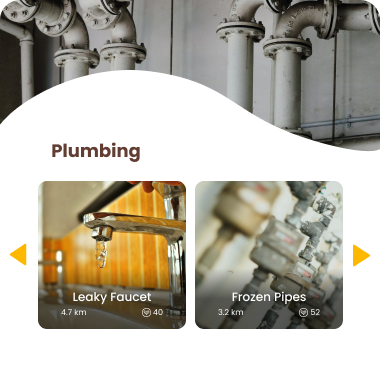
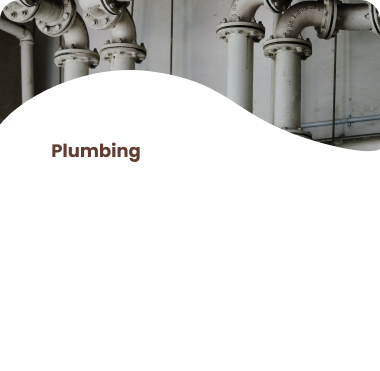
send request page updates dynamically through firebase

diff --git a/app/screens/Work.js b/app/screens/Work.js
@@ -1,12 +1,14 @@
 import 'react-native-gesture-handler';
-import React, { useRef } from "react";
+import React, { useRef, useState, useEffect } from "react";
 import { Animated, ImageBackground, Text, TouchableOpacity, ScrollView, Image, StyleSheet, Platform, StatusBar, View, Button, LogBox } from 'react-native';
 import colors from '../config/colors';
 import { render } from 'react-dom';
 import { color } from 'react-native-reanimated';
-import Swiper from 'react-native-swiper'
+import Swiper from 'react-native-swiper';
+import { firestore } from 'firebase';
 
-function Work({ navigation }) {
+function Work({ route, navigation }) {
+    const { userValue } = route.params;
     const fadeAnim1 = useRef(new Animated.Value(0)).current;
     const fadeAnim2 = useRef(new Animated.Value(0)).current;
     const fadeAnim3 = useRef(new Animated.Value(0)).current;
@@ -39,6 +41,44 @@ function Work({ navigation }) {
         alert("clicked")
         console.log(id)
     }
+
+    const [taskDisplay, setTaskDisplay]= React.useState([]);
+    const addMoreTask = (newTask) => {
+        setTaskDisplay({taskDisplay: [...taskDisplay, newTask]});
+      }
+
+    firestore()
+        .collection("tasks")
+        .where("user","==","9053334444")
+        .get()
+        .then((docSnapshot)=>{
+            const taskArray =[];
+            docSnapshot.forEach((doc)=>{
+                //console.log(doc.get("category"));
+                taskArray.push(doc.data());
+                // addMoreTask({
+                //     id: taskDisplay.length,
+                //     category: doc.get("category"),
+                // })
+            })
+            setTaskDisplay(taskArray);
+        })
+    
+    //const arr = [...taskDisplay].map((_, i) => i);
+    //console.log(taskDisplay.length);
+
+    const displayByArray = taskDisplay.map((item, index)=>
+        <View key = {index} 
+            style={{flex:1, flexDirection: 'row', alignContent: 'center'}}>
+            <TouchableOpacity>
+                <Image source={require('../assets/task_place.png')}
+                    style={{ alignSelf: 'center', borderRadius: 13, marginHorizontal:10, }}>
+                </Image>
+            </TouchableOpacity>
+        </View>
+    )
+
+
     return (
         <View style={styles.parentContainer}>
             <View style={styles.container}>
@@ -119,30 +159,51 @@ function Work({ navigation }) {
                         <View>
                             <ImageBackground
                                 source={require('../assets/gardening.png')}
-                                style={styles.gardening}>
-                                {/* <Text style={{top:100, marginBottom: 20,}}>HELLO</Text> */}
-                                <Swiper style={styles.gardenTasks}>
+                                style={styles.taskContainer}>
+                                <Swiper style={styles.taskSubContainer} activeDotColor={colors.secondary}>
+                                    {displayByArray}
+                                    <View style={{flex:1, flexDirection: 'row', alignContent: 'center'}}>
                                     <TouchableOpacity>
-                                        {/* onPress={() => navigation.navigate('Gardening')} */}
                                         <Image source={require('../assets/garden1.png')}
-                                            style={{ alignSelf: 'center', borderRadius: 13 }}>
-                                            {/* style={{ flex: 1, marginRight: 5, borderRadius: 13 }} */}
+                                            style={{ alignSelf: 'center', borderRadius: 13, marginLeft:26, marginRight: 10 }}>
                                         </Image>
                                     </TouchableOpacity>
                                     <TouchableOpacity>
                                         <Image source={require('../assets/garden2.png')}
-                                            style={{ flex: 1, marginLeft: 5, borderRadius: 13 }}>
+                                            style={{ alignSelf: 'center', borderRadius: 13, marginRight:26, marginLeft: 10}}>
 
                                         </Image>
                                     </TouchableOpacity>
+                                    </View>
                                 </Swiper>
                             </ImageBackground>
                         </View>
-                        <Image
-                            source={require('../assets/plumbing.png')}
-                            style={styles.plumbing}
-                        >
-                        </Image>
+                        <View>
+                            <ImageBackground
+                                source={require('../assets/plumbing.png')}
+                                style={styles.taskContainer}>
+                                    <Swiper style={styles.taskSubContainer} activeDotColor={colors.secondary}>
+                                        <View style={{flex:1, flexDirection: 'row', alignContent: 'center'}}>
+                                        <TouchableOpacity>
+                                            <Image source={require('../assets/garden1.png')}
+                                                style={{ alignSelf: 'center', borderRadius: 13, marginLeft:26, marginRight: 10 }}>
+                                            </Image>
+                                        </TouchableOpacity>
+                                        <TouchableOpacity>
+                                            <Image source={require('../assets/garden2.png')}
+                                                style={{ alignSelf: 'center', borderRadius: 13, marginRight:26, marginLeft: 10}}>
+
+                                            </Image>
+                                        </TouchableOpacity>
+                                        </View>
+                                        <TouchableOpacity>
+                                            <Image source={require('../assets/garden1.png')}
+                                                style={{ alignSelf: 'center', borderRadius: 13, marginHorizontal:10, }}>
+                                            </Image>
+                                        </TouchableOpacity>
+                                    </Swiper>
+                            </ImageBackground>
+                        </View>
                     </ScrollView>
                 </View>
             </View>
@@ -166,16 +227,9 @@ const styles = StyleSheet.create({
         width: '92%',
         alignSelf: 'center'
     },
-    gardenTasks: {
+    taskSubContainer: {
         height: 200,
         marginTop: 160,
-        // flexDirection: 'row',
-        // alignSelf: 'center',
-        // alignContent: 'center',
-        // width: '83%',
-        // marginTop: 182,
-        // paddingBottom: 39,
-        // marginLeft: 8,
     },
     container: {
         flex: 1,
@@ -216,12 +270,8 @@ const styles = StyleSheet.create({
         marginTop: 25,
         marginBottom: 19,
     },
-    plumbing: {
-        alignSelf: 'center',
-        marginTop: 30,
-        marginBottom: 50,
-    },
-    gardening: {
+
+    taskContainer: {
         flex: 1,
         alignSelf: 'center',
         marginTop: 50,
@@ -234,6 +284,6 @@ const styles = StyleSheet.create({
         alignSelf: 'center',
         marginTop: 30,
     },
-})
+});
 
 export default Work;

diff --git a/app/screens/Dashboard.js b/app/screens/Dashboard.js
@@ -24,8 +24,8 @@ function Dashboard({ route, navigation }) {
     const [duration, setDuration] = React.useState('')
     const [category, setCategory] = React.useState('')
     const [displayUser, setDisplayUser] = React.useState()
-    console.log(points)
-    console.log(pb)
+    // console.log(points)
+    // console.log(pb)
     const { userValue } = route.params;
     //setDisplayUser(require("../assets/"+userValue.toString()+".png"));
     let user = firebase.firestore()
@@ -146,7 +146,7 @@ function Dashboard({ route, navigation }) {
                         />
                     </TouchableOpacity>
                     <TouchableOpacity
-                        onPress={() => navigation.navigate('Work')}
+                        onPress={() => navigation.navigate('Work', {userValue})}
                         style={styles.workButton}>
                         <Image
                             source={require("../assets/workButton.png")}
